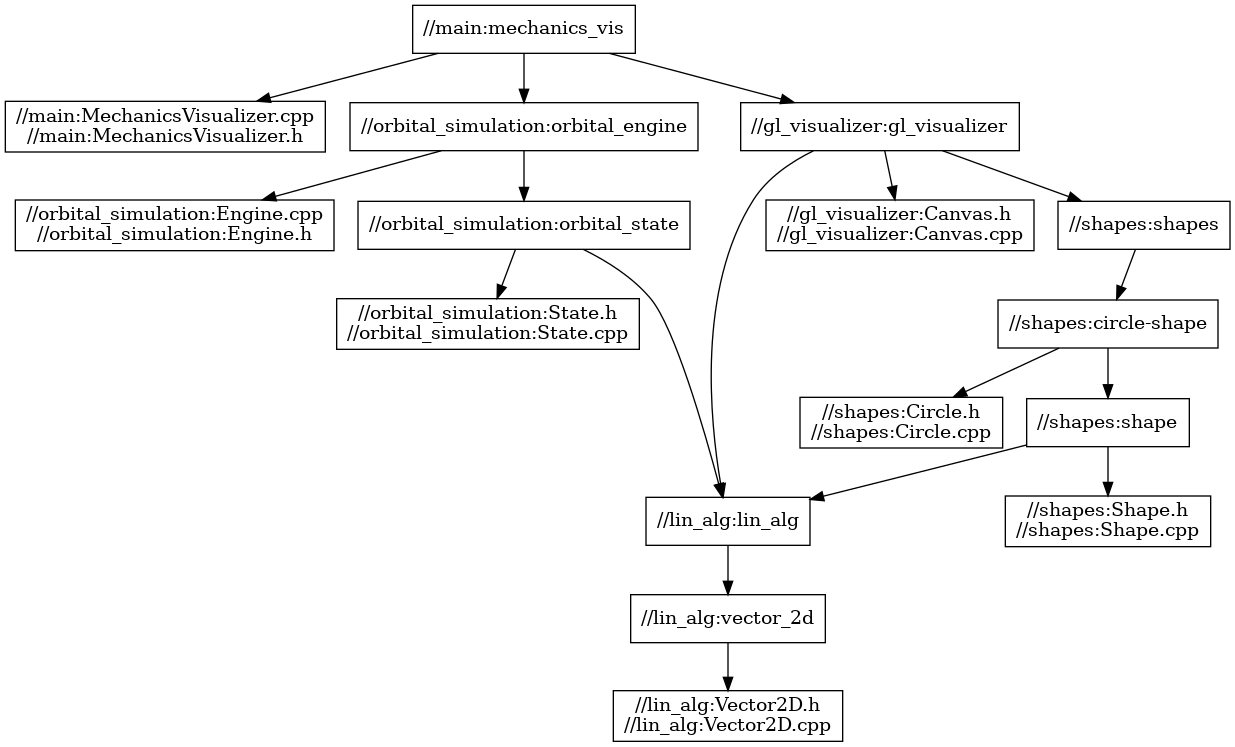
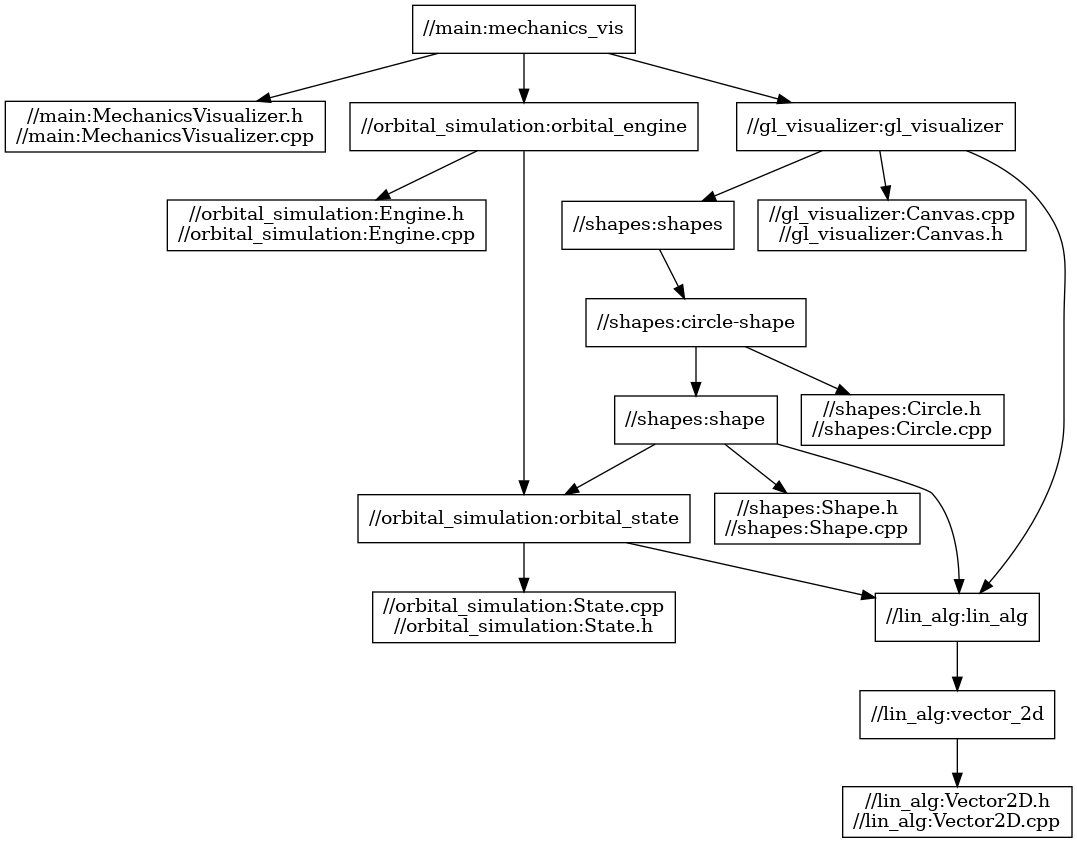
feat(MechanicsVisualizer): tied physiscs sim and visual renderer (#5)
together

diff --git a/code/main/MechanicsVisualizer.cpp b/code/main/MechanicsVisualizer.cpp
@@ -8,18 +8,8 @@
 #include "MechanicsVisualizer.h"
 
 void MechanicsVisualizer::DrawThread(){
-  //TODO replace with mouse / csv based insertion ASAP
-  auto ball_pos = v2d(250, 250);
-  auto ball = std::make_shared<Circle>(10, ball_pos);
+  canv_->StartWork();
 
-  auto ball_pos_2 = v2d(400, 250);
-  auto ball2 = std::make_shared<Circle>(35, ball_pos_2);
-
-  auto canv = Canvas::GetInstance();
-  canv->StartWork();
-
-  canv->EnqueueEntity(ball);
-  canv->EnqueueEntity(ball2);
   while(is_working_){
     std::this_thread::sleep_for(std::chrono::milliseconds(100));
   }
@@ -28,24 +18,33 @@ void MechanicsVisualizer::DrawThread(){
 void MechanicsVisualizer::PhysicsThread(){
   // random
   std::srand(std::time(nullptr)); // use current time as seed for random generator
-  auto s = new Engine();
-  s->StartWork();
-
-  auto rand_doub = [](){return ((float)std::rand()/((float)RAND_MAX)) * 100.0;}; 
-  auto rand_pos = [rand_doub]() {return v2d(rand_doub(),rand_doub());};
-
-  auto b = std::make_shared<State>(10, rand_pos());
-  auto c = std::make_shared<State>(5, rand_pos());
-  auto d = std::make_shared<State>(1, rand_pos());
-
-
-  s->EnqueueEntity(b);
-  s->EnqueueEntity(c);
-  s->EnqueueEntity(d);
+  eng_->StartWork();
 
   while(is_working_){
     std::this_thread::sleep_for(std::chrono::milliseconds(100));
   }
+}
+
+// this object doesn't itself maintain a queue but enqueues to relevant member objects
+void MechanicsVisualizer::EnqueueEntity(std::shared_ptr<Circle> circ){
+  canv_->EnqueueEntity(std::dynamic_pointer_cast<Shape>(circ));
+  eng_->EnqueueEntity(std::dynamic_pointer_cast<State>(circ));
+}
+
+void MechanicsVisualizer::Setup(){
+  // instanitalize both our member work objects
+  canv_ = Canvas::GetInstance();
+  eng_ = std::make_unique<Engine>();
+
+  //TODO replace with mouse / csv based insertion ASAP
+  auto ball_pos = v2d(250, 250);
+  auto ball = std::make_shared<Circle>(10, 10, ball_pos);
+
+  auto ball_pos_2 = v2d(400, 250);
+  auto ball2 = std::make_shared<Circle>(35, 10, ball_pos_2);
+
+  EnqueueEntity(ball);
+  EnqueueEntity(ball2);
 }
 
 void MechanicsVisualizer::StartWork(){

diff --git a/code/shapes/Shape.h b/code/shapes/Shape.h
@@ -2,27 +2,31 @@
 #define __SHAPE_H__
 
 #include "lin_alg/Vector2D.h"
+#include "orbital_simulation/State.h"
 
 #define PI 3.14159265f // unfortunately a good place for this
 
 static int global_count = 0;
 
-class Shape {
+// Shape is the base bulding block "entity" object
+// Shape extends the State object by allowing it to be rendered and tracked
+class Shape : public State {
 public:
   enum Type {NONE = 0, BALL = 1 };
-  Shape () : type_(Shape::Type::NONE), centroid_(v2d(0,0)) {
+  Shape () : State(), type_(Shape::Type::NONE) {
     id_ = global_count++;
   }
-  Shape (Shape::Type type, v2d pos) : type_(type), centroid_(pos ) {}
+  Shape (Shape::Type type, double mass, v2d pos) : State(mass, pos), type_(type){
+    id_ = global_count++;
+  }
   /* Accessors */
   Shape::Type GetType() {return type_;}
-  v2d GetCentroid() {return centroid_;}
+  v2d GetCentroid() {return GetPos();}
   virtual void Render() {};
   friend bool operator==(const Shape & lhs, const Shape & rhs);
 private:
   Shape::Type type_;
 protected:
-  v2d centroid_;
   int id_;
 };
 

diff --git a/code/main/MechanicsVisualizer.h b/code/main/MechanicsVisualizer.h
@@ -2,6 +2,8 @@
 #define __MECHANCIS_VISUALIZER_H__
 
 #include <thread>
+#include <memory>
+
 
 #include "gl_visualizer/Canvas.h"
 #include "shapes/Circle.h"
@@ -19,7 +21,12 @@ private:
 
   bool is_working_ = false;
 
+  Canvas* canv_; // TODO make smart pointer....
+  std::unique_ptr<Engine> eng_;
+  void EnqueueEntity(std::shared_ptr<Circle> circ);
+
 public:
+  void Setup(); // may be deprecated...
   void StartWork();
   void StopWork();
   bool IsWorking() {return is_working_;}

diff --git a/code/shapes/Circle.cpp b/code/shapes/Circle.cpp
@@ -7,7 +7,9 @@ void Circle::Render(){
   https://docs.gl/gl3/glTranslate
   f the matrix mode is either GL_MODELVIEW or GL_PROJECTION, all objects drawn after a call to glTranslate are translated. 
   */
-  glTranslatef(centroid_.x, centroid_.y, 0.0f);  // Translate to (xPos, yPos)
+
+  auto cent = GetCentroid();
+  glTranslatef(cent.x, cent.y, 0.0f);  // Translate to (xPos, yPos)
   
   // Use triangular segments to form a circle
   glBegin(GL_TRIANGLE_FAN);

diff --git a/code/gl_visualizer/Canvas.h b/code/gl_visualizer/Canvas.h
@@ -42,7 +42,9 @@ private:
 
 public:
   void StartWork() {work_thread_ = std::thread(&Canvas::WorkThread, this);}
-  void EnqueueEntity(std::shared_ptr<Shape> entity) {entity_queue_.push_back(entity);}
+  void EnqueueEntity(std::shared_ptr<Shape> entity) {
+    entity_queue_.push_back(entity);
+  }
   int CurrentHeight() {return current_height_;}
   int CurrentWidth() {return current_width_;}
   static Canvas* GetInstance(int w = 800, int h = 600);

diff --git a/code/gl_visualizer/tests/test_draw.cpp b/code/gl_visualizer/tests/test_draw.cpp
@@ -9,10 +9,10 @@
 int main(){
   // make a ball object to visualize
   auto ball_pos = v2d(250, 250);
-  auto ball = std::make_shared<Circle>(10, ball_pos);
+  auto ball = std::make_shared<Circle>(10, 10, ball_pos);
 
   auto ball_pos_2 = v2d(400, 250);
-  auto ball2 = std::make_shared<Circle>(35, ball_pos_2);
+  auto ball2 = std::make_shared<Circle>(35, 10, ball_pos_2);
 
   // get instance of canvas
   auto canv = Canvas::GetInstance();

diff --git a/code/shapes/tests/shape-test.cpp b/code/shapes/tests/shape-test.cpp
@@ -3,11 +3,11 @@
 #include "shapes/Shape.h"
 
 TEST(Shape, Equality) {
-  auto c = Circle(5, {2,3});
+  auto c = Circle(5, 10, {2,3});
   auto d = c;
-  auto e = Circle(1, {2,3});
+  auto e = Circle(1, 10, {2,3});
 
-  auto f = Circle(5, {2,3});
+  auto f = Circle(5, 1, {2,3});
 
   EXPECT_EQ(c,d);
   EXPECT_NE(c, e);

diff --git a/code/shapes/Circle.h b/code/shapes/Circle.h
@@ -5,7 +5,7 @@
 
 class Circle : public Shape {
 public:
-  Circle (double rad, v2d pos) : Shape(Shape::Type::BALL, pos), radius_(rad) {}
+  Circle (double rad, double mass, v2d pos) : Shape(Shape::Type::BALL, mass, pos), radius_(rad) {}
   double GetRadius() {return radius_;}
   void Render() override;
 private:

diff --git a/code/gl_visualizer/Canvas.cpp b/code/gl_visualizer/Canvas.cpp
@@ -5,9 +5,6 @@ Canvas* Canvas::instance_= nullptr;;
 
 Canvas* Canvas::GetInstance(int w, int h){
     if(instance_ == nullptr){
-      #ifdef LOG
-        auto _ = fulfil::utils::Logger::Instance();
-      #endif
         instance_ = new Canvas(w, h);
     }
     return instance_;

diff --git a/code/main/main.cpp b/code/main/main.cpp
@@ -14,6 +14,7 @@ void signalHandler( int signum ) {
 
 int main(int argc, char *argv[]){
   signal(SIGINT, signalHandler);  
+  mv.Setup();
   mv.StartWork();
   while (mv.IsWorking()){
     std::this_thread::sleep_for(std::chrono::milliseconds(100));

diff --git a/code/shapes/README.md b/code/shapes/README.md
@@ -1,3 +1,4 @@
 # Shapes
 
-Shapes package serves as a peice of middleware to define low level OpenGL level co
+Shapes package serves as a peice of middleware:
+* define visual aspects of rendering 
